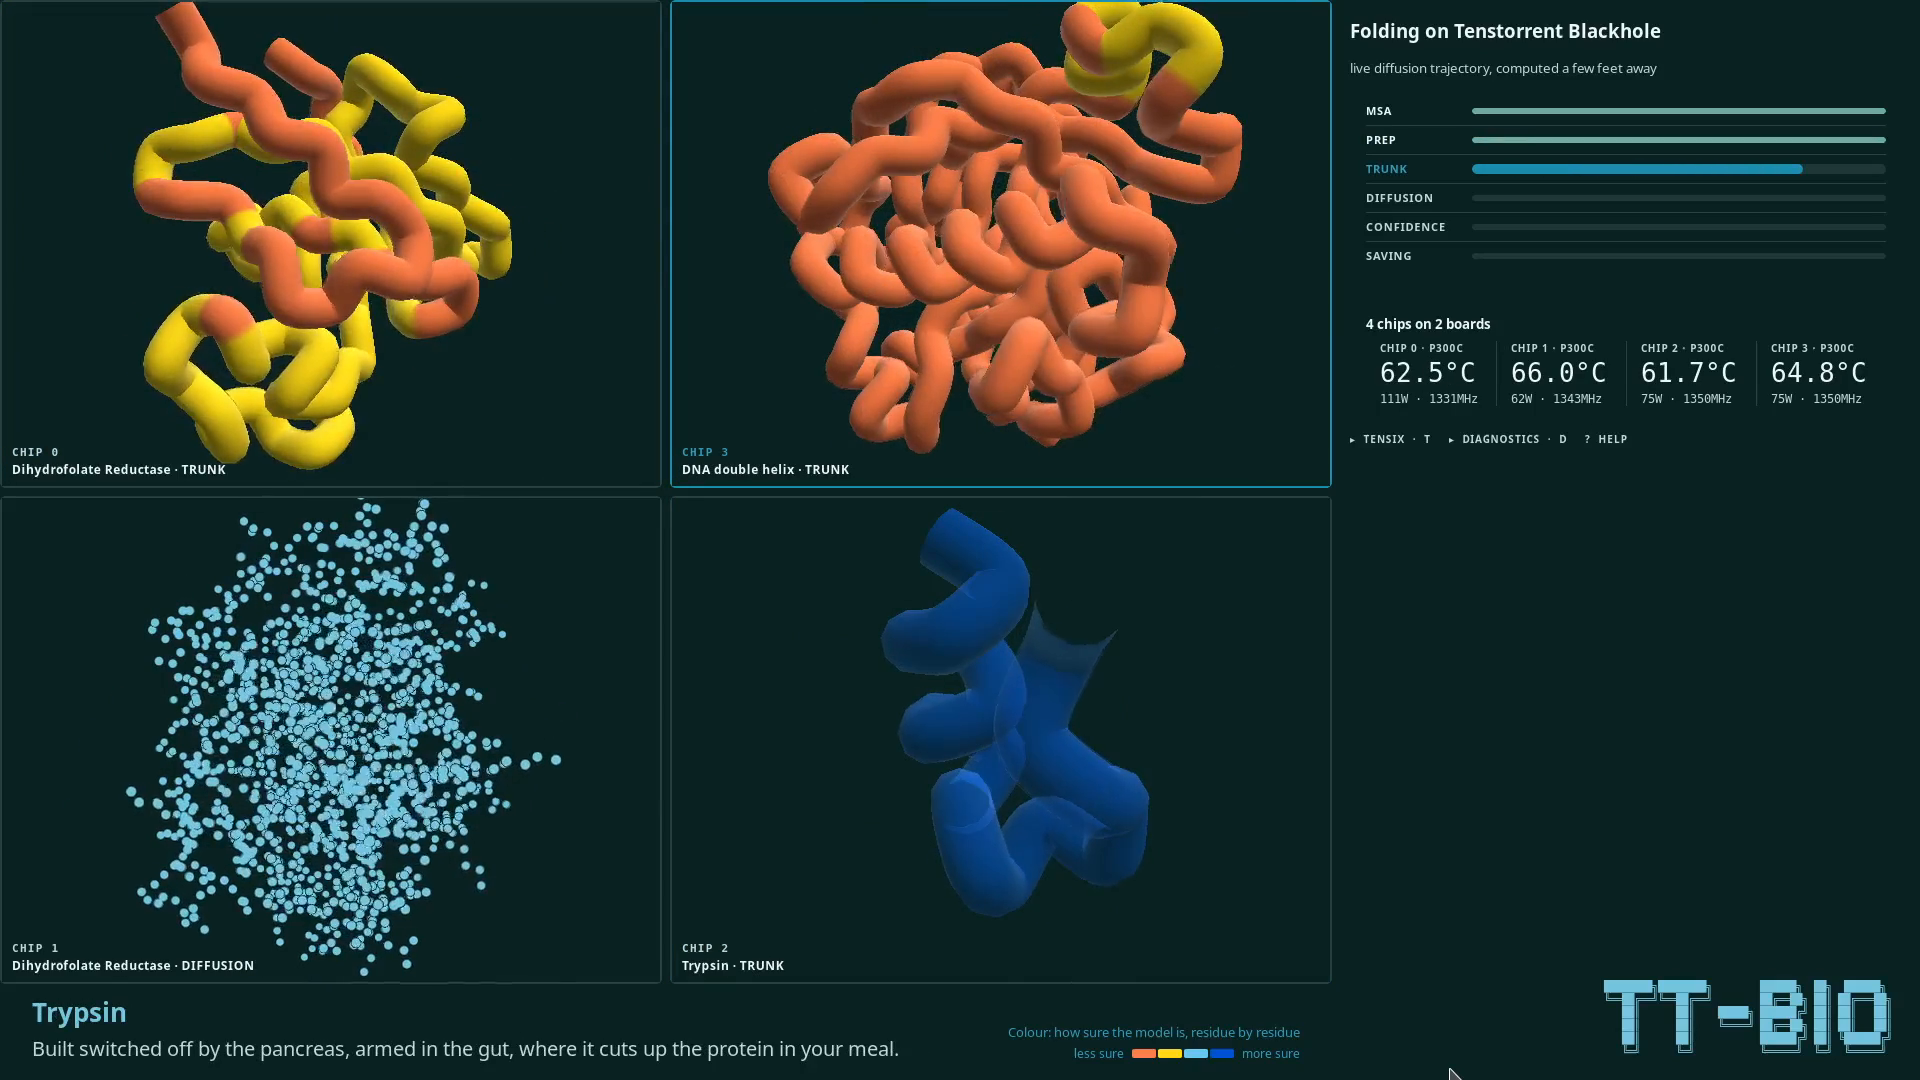
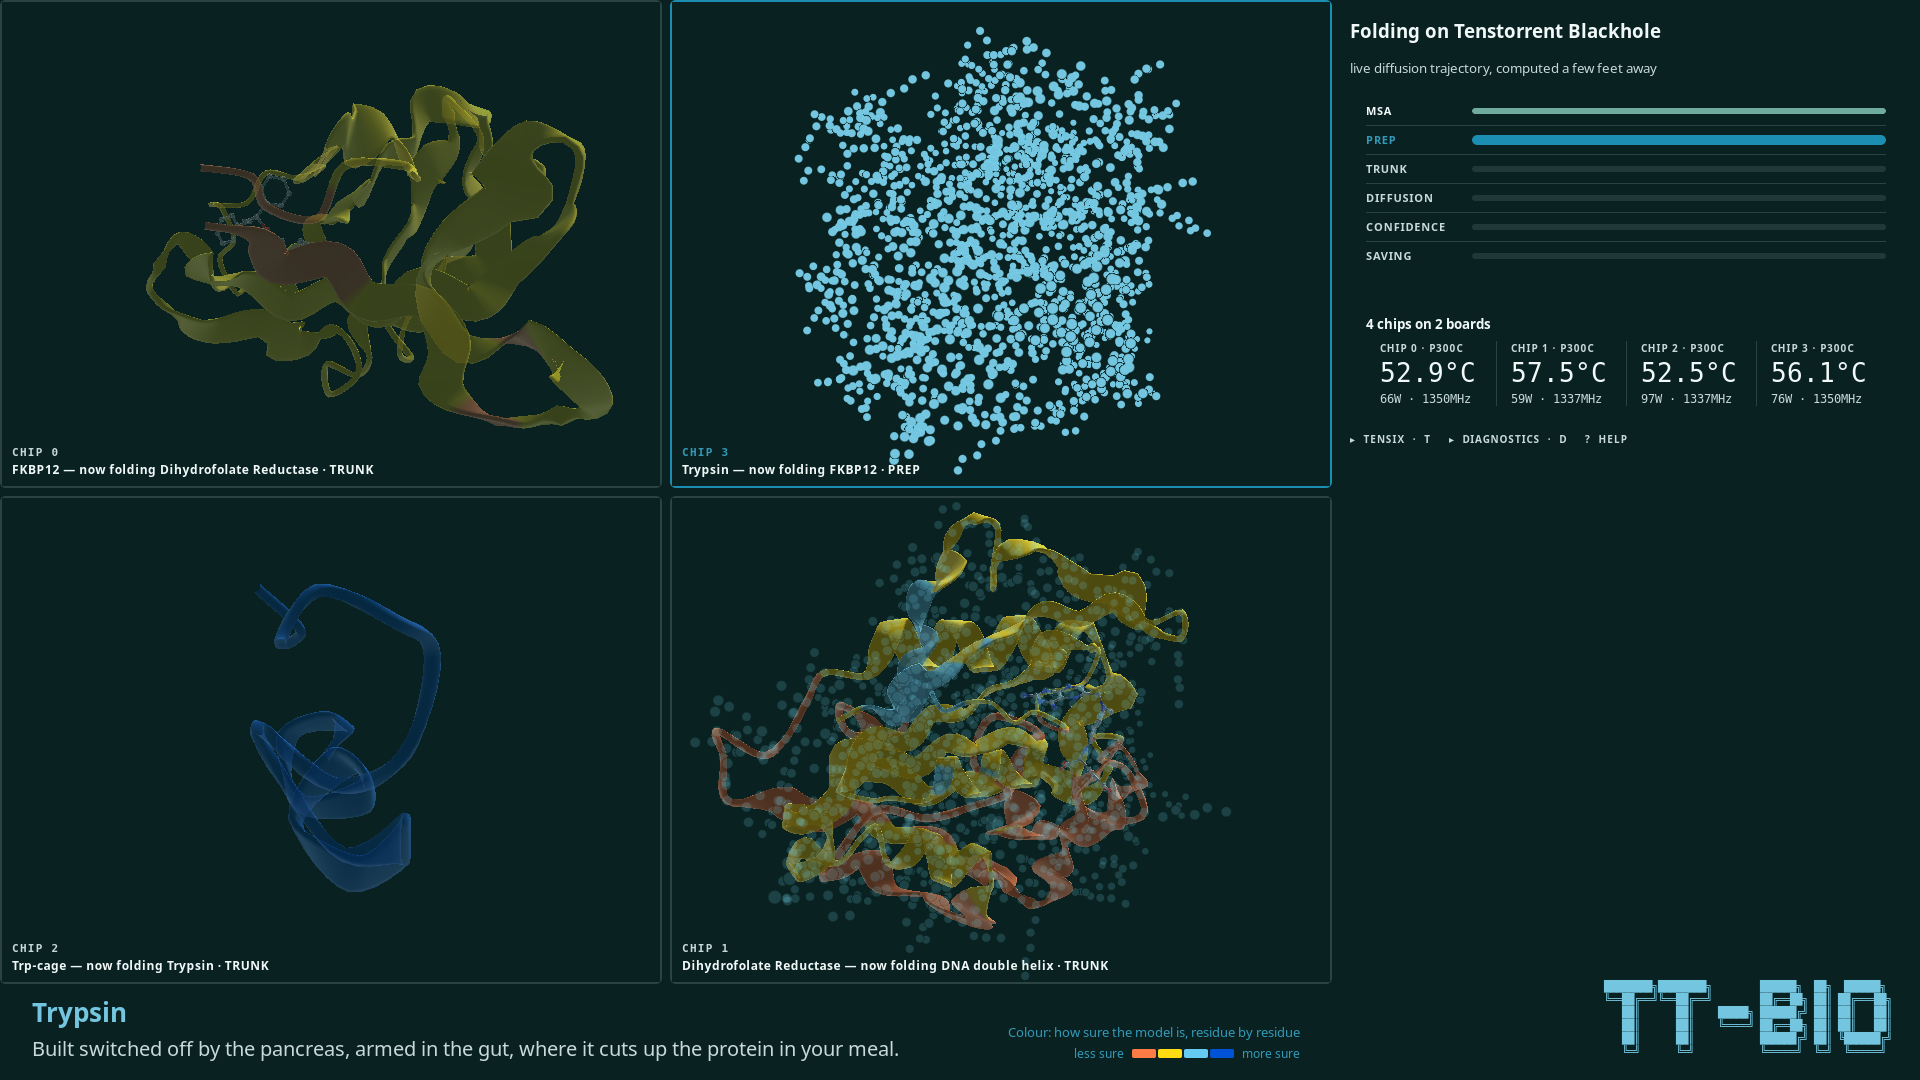
docs: screenshot 06 shows the booth as it is now
Recaptured on reset hardware with the current build. Everything that landed
this week is visible at once: cartoon ribbons with sheet arrows, bound
ligands in the FKBP12 and DHFR pockets, Trp-cage rendering as the helix it
is, and every cell naming BOTH molecules when it is holding a previous fold
("FKBP12 - now folding Dihydrofolate Reductase . TRUNK").

The old image predated the caption fix, so each of its cells was labelled
with a molecule it was not drawing. The README had to warn readers about
that; now it does not, and the caption describes the cartoon and the ligands
instead -- which is what a reader is actually looking at.

diff --git a/README.md b/README.md
@@ -66,20 +66,21 @@ booth runs unattended all day.
 labelled with the chip it runs on, the protein, and the stage it has reached. Four
 independent folds at four independent points in their pipelines, on one screen.
 
-**Read the labels before the colours.** Three of these cells say `TRUNK`, and only the
-diffusion stage produces coordinates — so a cell in `trunk` is holding the **previous**
-fold on that chip rather than going black (see [Never a blank screen](#never-a-blank-screen)).
-Each cell names both molecules when that happens: `Trypsin — now folding Dihydrofolate
-Reductase · TRUNK`. Chip 1 is mid-diffusion, the cloud that has not become a shape yet.
+Each cell names its chip, what it is drawing, and what that chip has moved on to.
+Three of these say `TRUNK`: only the diffusion stage produces coordinates, so a cell in
+`trunk` keeps showing the **previous** fold rather than going black (see
+[Never a blank screen](#never-a-blank-screen)) — and says so, naming both molecules.
+Chip 3 is mid-diffusion, the cloud that has not become a shape yet.
 
-Measured from the gallery thumbnails, which are single finished folds: Trp-cage and the DNA
-duplex resolve almost entirely deep blue; trypsin is ~94% orange, and FKBP12 and DHFR are
-mostly orange and yellow. The model is *more* confident about a regular repeating duplex
-than about a large irregular enzyme with mobile loops.
+Structures are drawn as a **cartoon**: helices as flat ribbons, sheets as arrows, loops as
+thin tube — the representation used in every paper and textbook. The model's mmCIF carries
+no secondary-structure records, so which residues are helix and which are sheet is worked
+out from the C-alpha geometry (`ui/secstruct.py`).
 
-Three of those four cells say `TRUNK`, and are drawing the **previous** fold on that chip
-rather than a blank cell (see [Never a blank screen](#never-a-blank-screen)) — the trunk
-stage produces no coordinates to draw.
+Look at chips 0 and 1 and you can see a small molecule in the protein's pocket, drawn
+ball-and-stick in the usual element colours. Three of the five targets fold a **bound
+ligand** alongside the protein — FKBP12 with a binder, trypsin with benzamidine, and DHFR
+with methotrexate, the cancer drug its gallery card names.
 
 Start the booth already in the grid with `scripts/run-demo.sh --quad`; <kbd>Q</kbd> still
 toggles either way at runtime.
